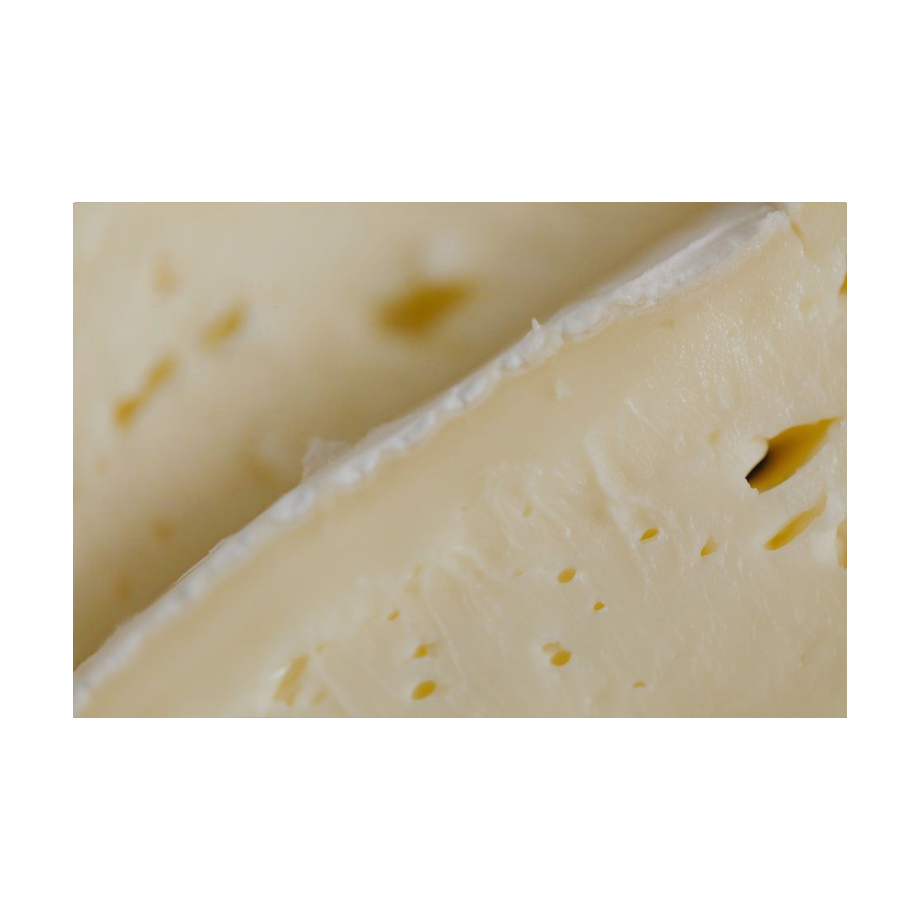
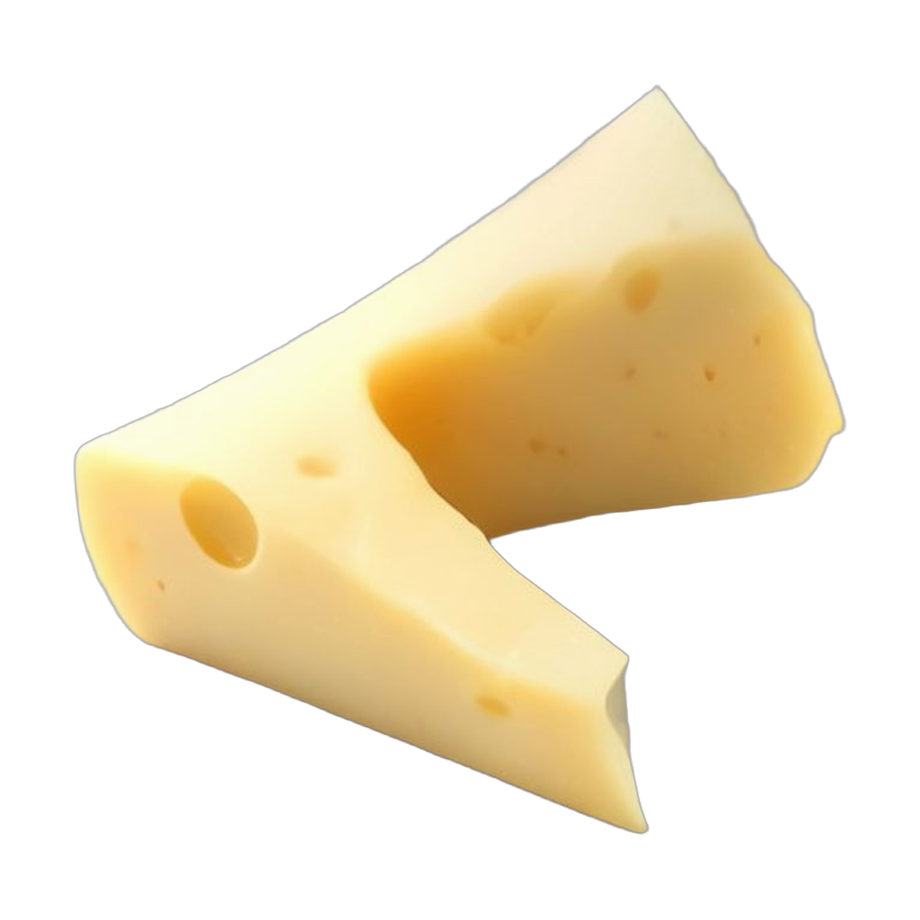
queso: FOTO real de emmental con agujeros (no dibujo)
Revierto el error del SVG dibujado: Saulo dejó claro que TODO son fotos, no
dibujos. queso vuelve a mapear a assets/fotos/queso.png, ahora una cuña de
emmental fotorrealista con agujeros grandes y claros (recortada con rembg,
fondo transparente, centrada como el resto), reconocible de un vistazo.

diff --git a/apps/tablet/lib/widgets/ilustracion.dart b/apps/tablet/lib/widgets/ilustracion.dart
@@ -480,8 +480,7 @@ class IlustracionResolver {
     'pescado': 'assets/fotos/pescado.png',
     'pimiento': 'assets/fotos/pimiento.png',
     'puerta': 'assets/fotos/puerta.png',
-    // 'queso' usa el SVG (cuña con agujeros, reconocible); la foto no se
-    // identificaba (feedback repetido de Saulo/Laura/jjsh).
+    'queso': 'assets/fotos/queso.png',
     'reloj': 'assets/fotos/reloj.png',
     'sandia': 'assets/fotos/sandia.png',
     'sarten': 'assets/fotos/sarten.png',
